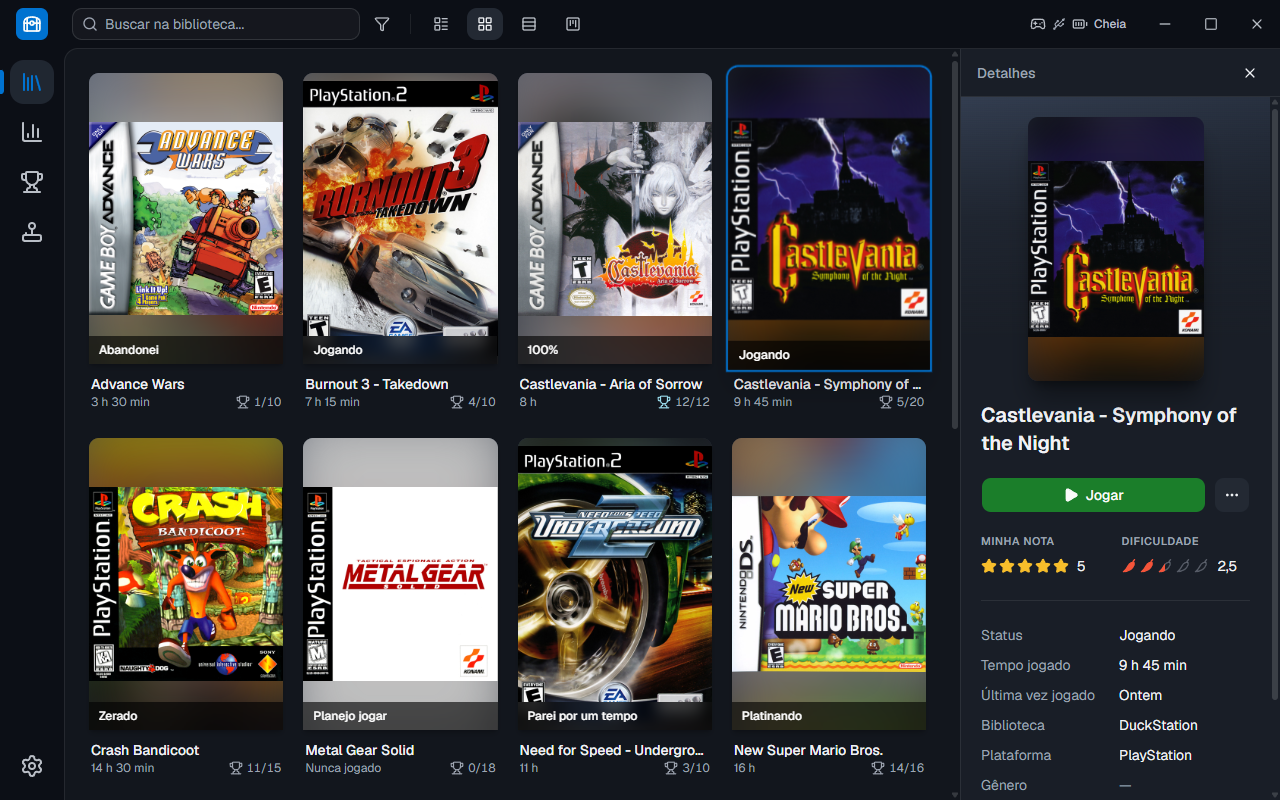
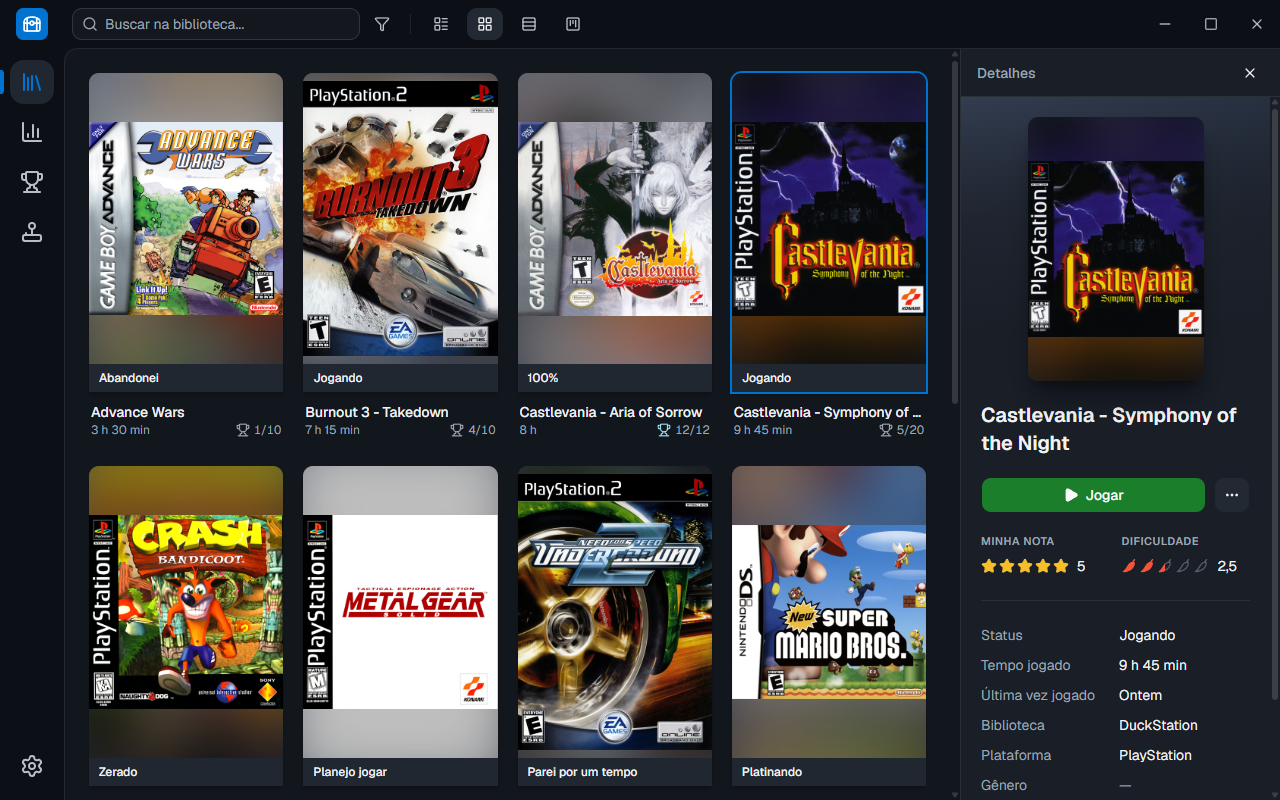
chore: prepara a versão 0.6.0

Changed region(s): [[0.0625, 0.0625, 0.75, 0.9688], [0.8438, 0.0, 0.875, 0.0312]]

diff --git a/CLAUDE.md b/CLAUDE.md
@@ -36,13 +36,13 @@ Guia de trabalho do Claude neste projeto e resumo do estado atual do desenvolvim
 - **Referência visual:** Playnite, modo Desktop (o usuário mandou um print do modo Detalhes como modelo).
 - **Stack:** Electron 44 + electron-vite 5 (Vite 7) + React 19 + TypeScript 7 + Tailwind CSS 4 + shadcn/ui (base Radix, estilo `radix-nova`) + lucide-react + better-sqlite3 13.
 - **Conferir com emuladores e ROMs de verdade:** o que o usuário tem e onde fica está na memória do Claude, fora do repositório (veja "Privacidade"). Sempre com uma pasta de dados temporária, e nunca abrir os jogos de verdade nos testes.
-- **Próximo passo: abrir o código (plano do usuário, 2026-09-29).** A **0.4.0** saiu em 2026-09-24 (avaliação, conquistas do RetroAchievements e troféus do PS3). Na `desenvolvimento` já estão o **app em português e inglês**, o **código limpo** e o **nome Playtrove com o ícone novo**. Ordem combinada: primeiro o app (falta o **instalador + versão portátil**, com a **atualização automática** pelo GitHub: "avisa e atualiza com um clique"), depois o GitHub (README em inglês e português, licença, formulário de bugs, apoio e perfil) e, por último, tornar público com o OK dele na hora. **O público vai ser um repositório novo, `Playtrove`, começando só com os arquivos de hoje**: o histórico deste tem dados pessoais dos primeiros dias (o e-mail nas junções de Pull Request, o caminho com o nome de usuário do Windows, os nomes dos jogos dele e as primeiras capturas). A **0.5.0** sai lá, como a primeira versão pública, já com o instalador. **Situação em 2026-10-08:** o usuário criou o `LamarcKz/Playtrove` (privado) e pediu para subir o código: ele começou com um commit só, com o código daquele dia. No mesmo dia, com o OK dele, saiu a **0.5.0** lá (a primeira versão do repositório novo, com o instalador e a portátil). Com o OK dele, o repositório **ficou público no mesmo dia** (2026-10-08), com o aviso privado de segurança ligado (aba Security, "Report a vulnerability", que o `SECURITY.md` indica) e os tópicos (game-library, game-launcher, emulation, emulators, retroachievements, playnite, electron, react, typescript, windows). A atualização da 0.4.0 para a 0.5.0 pelo app instalado dele funcionou. **Próximos passos possíveis:** a assinatura grátis da SignPath (pedido do usuário no site deles + um robô que gere o instalador no GitHub); o GitHub Sponsors e o README do perfil (com ele); e o Roadmap. Também falta ele se inscrever no GitHub Sponsors e, se quiser, o README do perfil.
+- **Próximo passo: abrir o código (plano do usuário, 2026-09-29).** A **0.4.0** saiu em 2026-09-24 (avaliação, conquistas do RetroAchievements e troféus do PS3). Na `desenvolvimento` já estão o **app em português e inglês**, o **código limpo** e o **nome Playtrove com o ícone novo**. Ordem combinada: primeiro o app (falta o **instalador + versão portátil**, com a **atualização automática** pelo GitHub: "avisa e atualiza com um clique"), depois o GitHub (README em inglês e português, licença, formulário de bugs, apoio e perfil) e, por último, tornar público com o OK dele na hora. **O público vai ser um repositório novo, `Playtrove`, começando só com os arquivos de hoje**: o histórico deste tem dados pessoais dos primeiros dias (o e-mail nas junções de Pull Request, o caminho com o nome de usuário do Windows, os nomes dos jogos dele e as primeiras capturas). A **0.5.0** sai lá, como a primeira versão pública, já com o instalador. **Situação em 2026-10-08:** o usuário criou o `LamarcKz/Playtrove` (privado) e pediu para subir o código: ele começou com um commit só, com o código daquele dia. No mesmo dia, com o OK dele, saiu a **0.5.0** lá (a primeira versão do repositório novo, com o instalador e a portátil). Com o OK dele, o repositório **ficou público no mesmo dia** (2026-10-08), com o aviso privado de segurança ligado (aba Security, "Report a vulnerability", que o `SECURITY.md` indica) e os tópicos (game-library, game-launcher, emulation, emulators, retroachievements, playnite, electron, react, typescript, windows). A atualização da 0.4.0 para a 0.5.0 pelo app instalado dele funcionou. A **0.6.0** saiu em 2026-10-14, com o OK dele: o PPSSPP, o Dolphin e o Azahar, a faixa do status da Grade embaixo da capa, o aviso dos troféus do PS3 antes do primeiro jogo e o IGDB preferindo o jogo original a um hack. **Próximos passos possíveis:** a assinatura grátis da SignPath (pedido do usuário no site deles + um robô que gere o instalador no GitHub); o GitHub Sponsors e o README do perfil (com ele); e o Roadmap. Também falta ele se inscrever no GitHub Sponsors e, se quiser, o README do perfil.
 - **Alarme falso do banco em 2026-09-19:** o banco pareceu danificado (sem as tabelas `statuses` e `emulators`), mas isso veio de uma cópia feita com o app aberto — copiar um SQLite em uso, com o WAL, dá uma cópia rasgada. Os dados do usuário estavam inteiros. **Nunca diagnosticar o banco por cópia com o app rodando**; se precisar olhar, abrir só para leitura, e de preferência com o app fechado. Ficaram dois cuidados, que valem de qualquer jeito: gravar sem WAL e conferir/consertar ao abrir (`src/main/databaseFile.ts`; o arquivo danificado é guardado ao lado, nada é apagado).
 - **Segurança dos dados (decidido em 2026-09-24):** o usuário pediu para guardar as chaves e os dados "num .env ou algo seguro". Explicado e decidido **manter como está**: as chaves das APIs ficam trancadas pelo Windows (`safeStorage`) e nunca voltam para a tela; a biblioteca, as notas e as análises ficam no arquivo do banco, na pasta do usuário, sem criptografia (criptografar o banco inteiro arriscaria perder tudo se a senha do Windows fosse redefinida). Um `.env` guardaria as chaves às claras e é para configuração de quem desenvolve, não para os dados de quem usa o app. Não propor de novo sem ele pedir.
 - **Chaves das APIs:** quem cria e salva as chaves (IGDB, SteamGridDB e RetroAchievements) é o usuário, no próprio app: nunca digitar as chaves por ele. Os testes usam serviços de mentira.
 - **Favorito e Recentes não são status** (o usuário perguntou em 2026-09-19): o status é um só por jogo; o favorito é uma marca à parte, que combina com qualquer status; e "Recentes" é calculado pela última vez jogado, então muda sozinho com o tempo. Por isso os dois são filtros, como no Playnite.
 - **Ideias para depois:** ficam no "Roadmap" do `README.md` (lembrar modo e filtros ao reabrir, tema claro, links dos jogos...), nunca como código que ainda não faz nada. Onde mexer para cada uma está em `ESTRUTURA.md`, na seção "Onde implementar cada funcionalidade futura".
-- **Git/GitHub (desde 2026-10-08):** o repositório é o **`LamarcKz/Playtrove`** (remote `origin`), **público desde 2026-10-08**. Ele começou com um commit só, com o código daquele dia, e as duas branches no mesmo commit. O histórico de antes (até a v0.4.0) fica no `LamarcKz/Bibliotecaofgames`, privado, que agora é só arquivo: aqui ele é o remote `antigo`, sem tags (`remote.antigo.tagOpt = --no-tags`), e **nada dele vai para o `origin`** (os commits antigos têm dados pessoais). As tags antigas foram tiradas daqui; a primeira tag do repositório novo é a `v0.5.0`. A `main` é a versão estável (**v0.5.0**, de 2026-10-08); o trabalho acontece na **`desenvolvimento`**. Ver a seção "Git e GitHub".
+- **Git/GitHub (desde 2026-10-08):** o repositório é o **`LamarcKz/Playtrove`** (remote `origin`), **público desde 2026-10-08**. Ele começou com um commit só, com o código daquele dia, e as duas branches no mesmo commit. O histórico de antes (até a v0.4.0) fica no `LamarcKz/Bibliotecaofgames`, privado, que agora é só arquivo: aqui ele é o remote `antigo`, sem tags (`remote.antigo.tagOpt = --no-tags`), e **nada dele vai para o `origin`** (os commits antigos têm dados pessoais). As tags antigas foram tiradas daqui; a primeira tag do repositório novo é a `v0.5.0`. A `main` é a versão estável (**v0.6.0**, de 2026-10-14); o trabalho acontece na **`desenvolvimento`**. Ver a seção "Git e GitHub".
 
 Manter esta seção curta e sempre atualizada: ela é o ponto de partida de cada sessão.
 

diff --git a/README.pt-BR.md b/README.pt-BR.md
@@ -14,7 +14,7 @@
 </p>
 
 <p align="center">
-  <img alt="Versão 0.5.0" src="https://img.shields.io/badge/vers%C3%A3o-0.5.0-0072d0">
+  <img alt="Versão 0.6.0" src="https://img.shields.io/badge/vers%C3%A3o-0.6.0-0072d0">
   <img alt="Em desenvolvimento" src="https://img.shields.io/badge/status-em%20desenvolvimento-orange">
   <img alt="Licença MIT" src="https://img.shields.io/badge/licen%C3%A7a-MIT-green">
   <a href="https://github.com/LamarcKz/Playtrove/actions/workflows/tests.yml"><img alt="Testes" src="https://github.com/LamarcKz/Playtrove/actions/workflows/tests.yml/badge.svg"></a>

diff --git a/README.md b/README.md
@@ -14,7 +14,7 @@
 </p>
 
 <p align="center">
-  <img alt="Version 0.5.0" src="https://img.shields.io/badge/version-0.5.0-0072d0">
+  <img alt="Version 0.6.0" src="https://img.shields.io/badge/version-0.6.0-0072d0">
   <img alt="In development" src="https://img.shields.io/badge/status-in%20development-orange">
   <img alt="MIT license" src="https://img.shields.io/badge/license-MIT-green">
   <a href="https://github.com/LamarcKz/Playtrove/actions/workflows/tests.yml"><img alt="Tests" src="https://github.com/LamarcKz/Playtrove/actions/workflows/tests.yml/badge.svg"></a>
